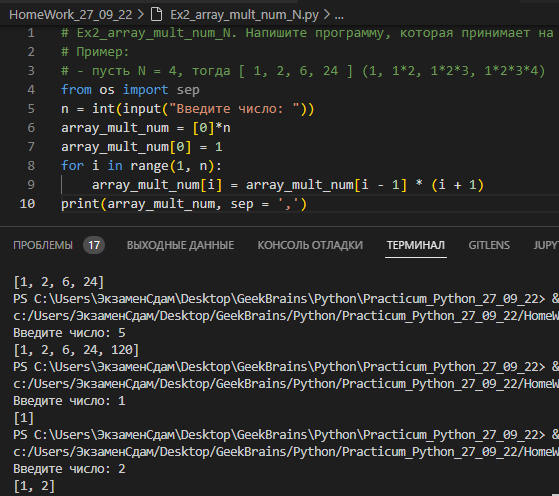
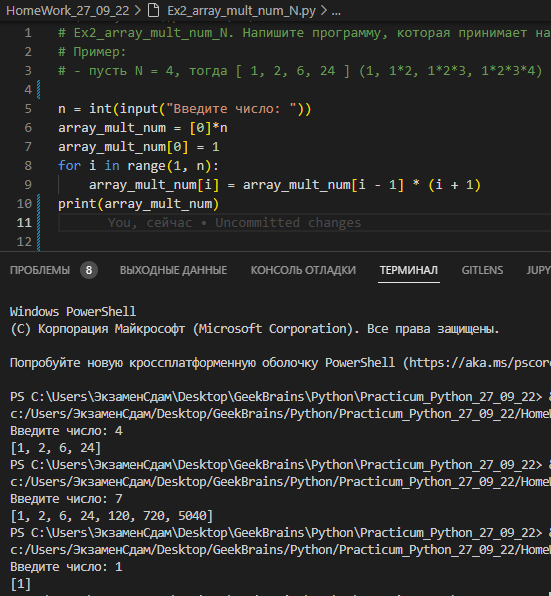
update Ex2

diff --git a/HomeWork_27_09_22/Ex2_array_mult_num_N.py b/HomeWork_27_09_22/Ex2_array_mult_num_N.py
@@ -1,10 +1,20 @@
 # Ex2_array_mult_num_N. Напишите программу, которая принимает на вход число N и выдает набор произведений чисел от 1 до N.
 # Пример:
 # - пусть N = 4, тогда [ 1, 2, 6, 24 ] (1, 1*2, 1*2*3, 1*2*3*4) 
-from os import sep
+
 n = int(input("Введите число: "))
 array_mult_num = [0]*n
 array_mult_num[0] = 1
 for i in range(1, n):
     array_mult_num[i] = array_mult_num[i - 1] * (i + 1)
-print(array_mult_num, sep = ',')
+print(array_mult_num)
+
+
+
+# def factorial(n):
+#     res = 1
+#     for k in range(1, n + 1):
+#        res *= k
+#     return res
+# for i in range(1, n + 1):
+#     print(factorial(i), end=' ')
